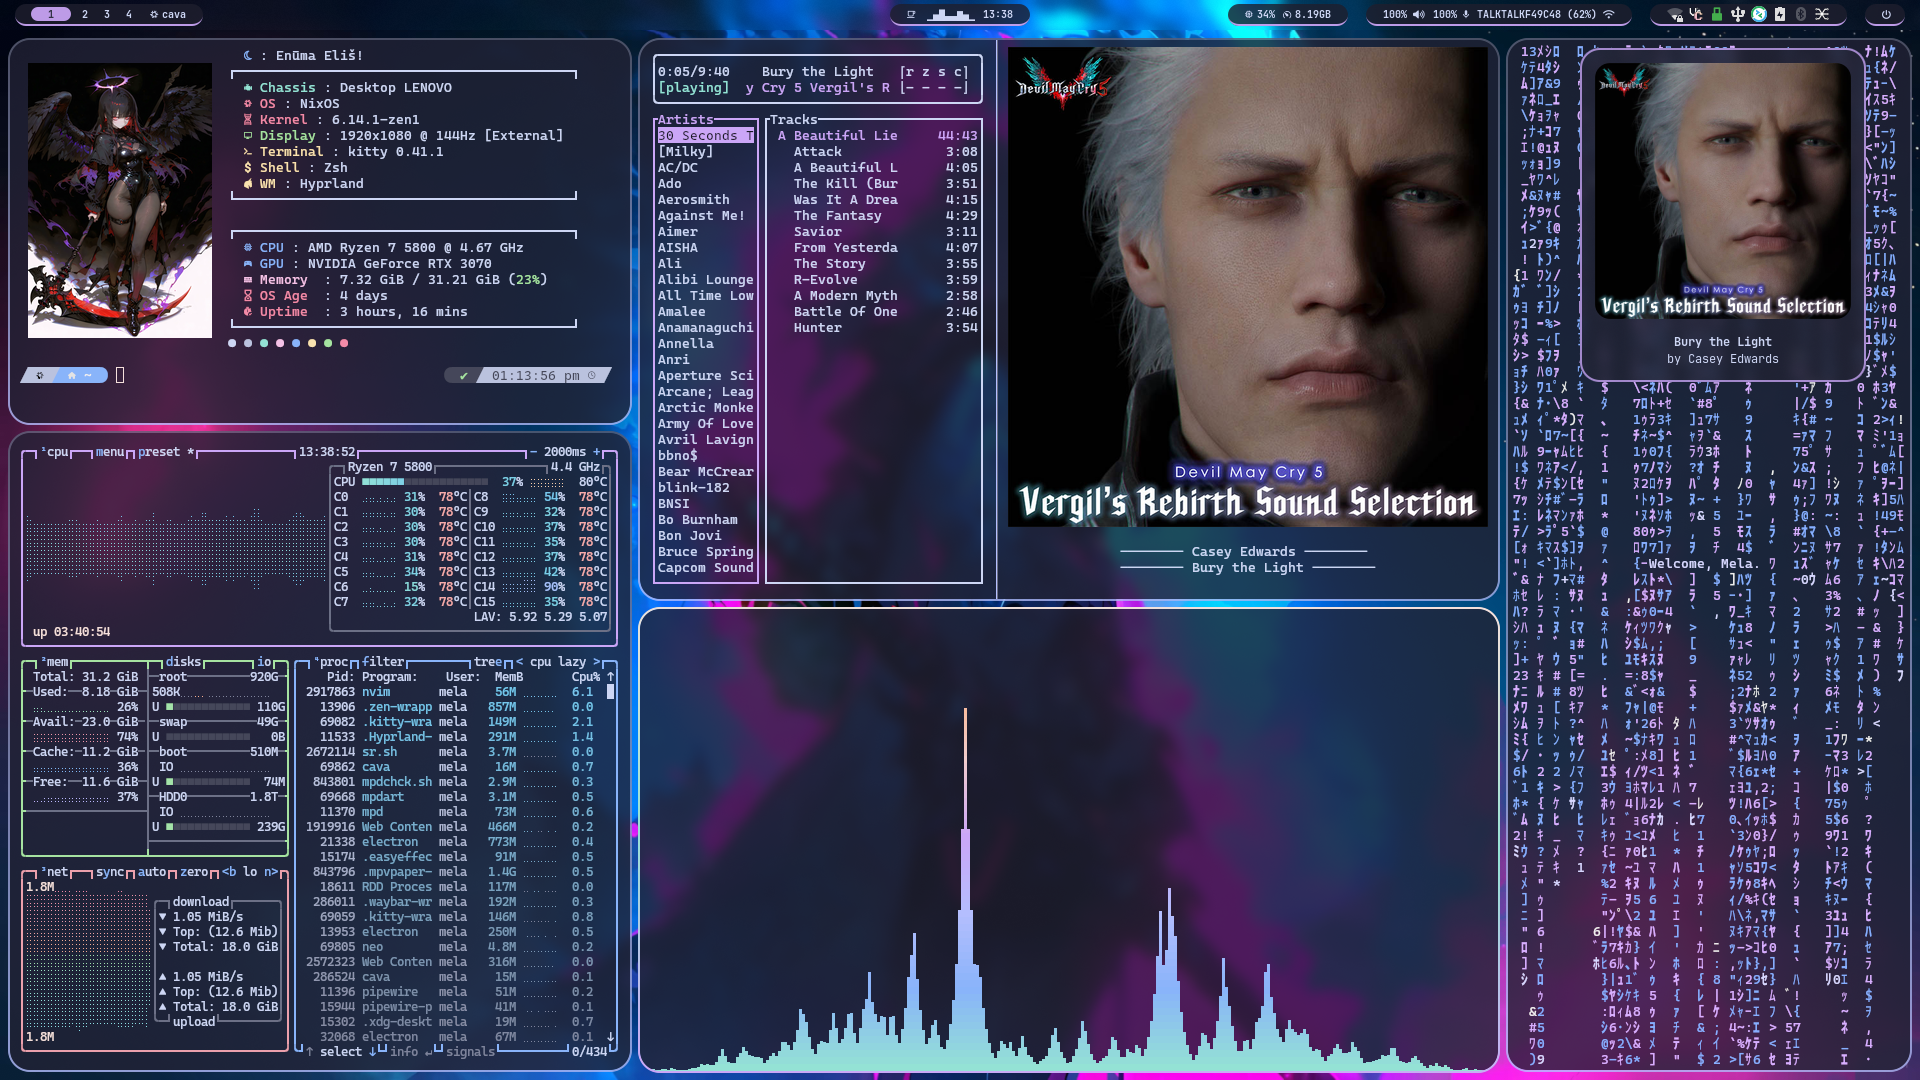
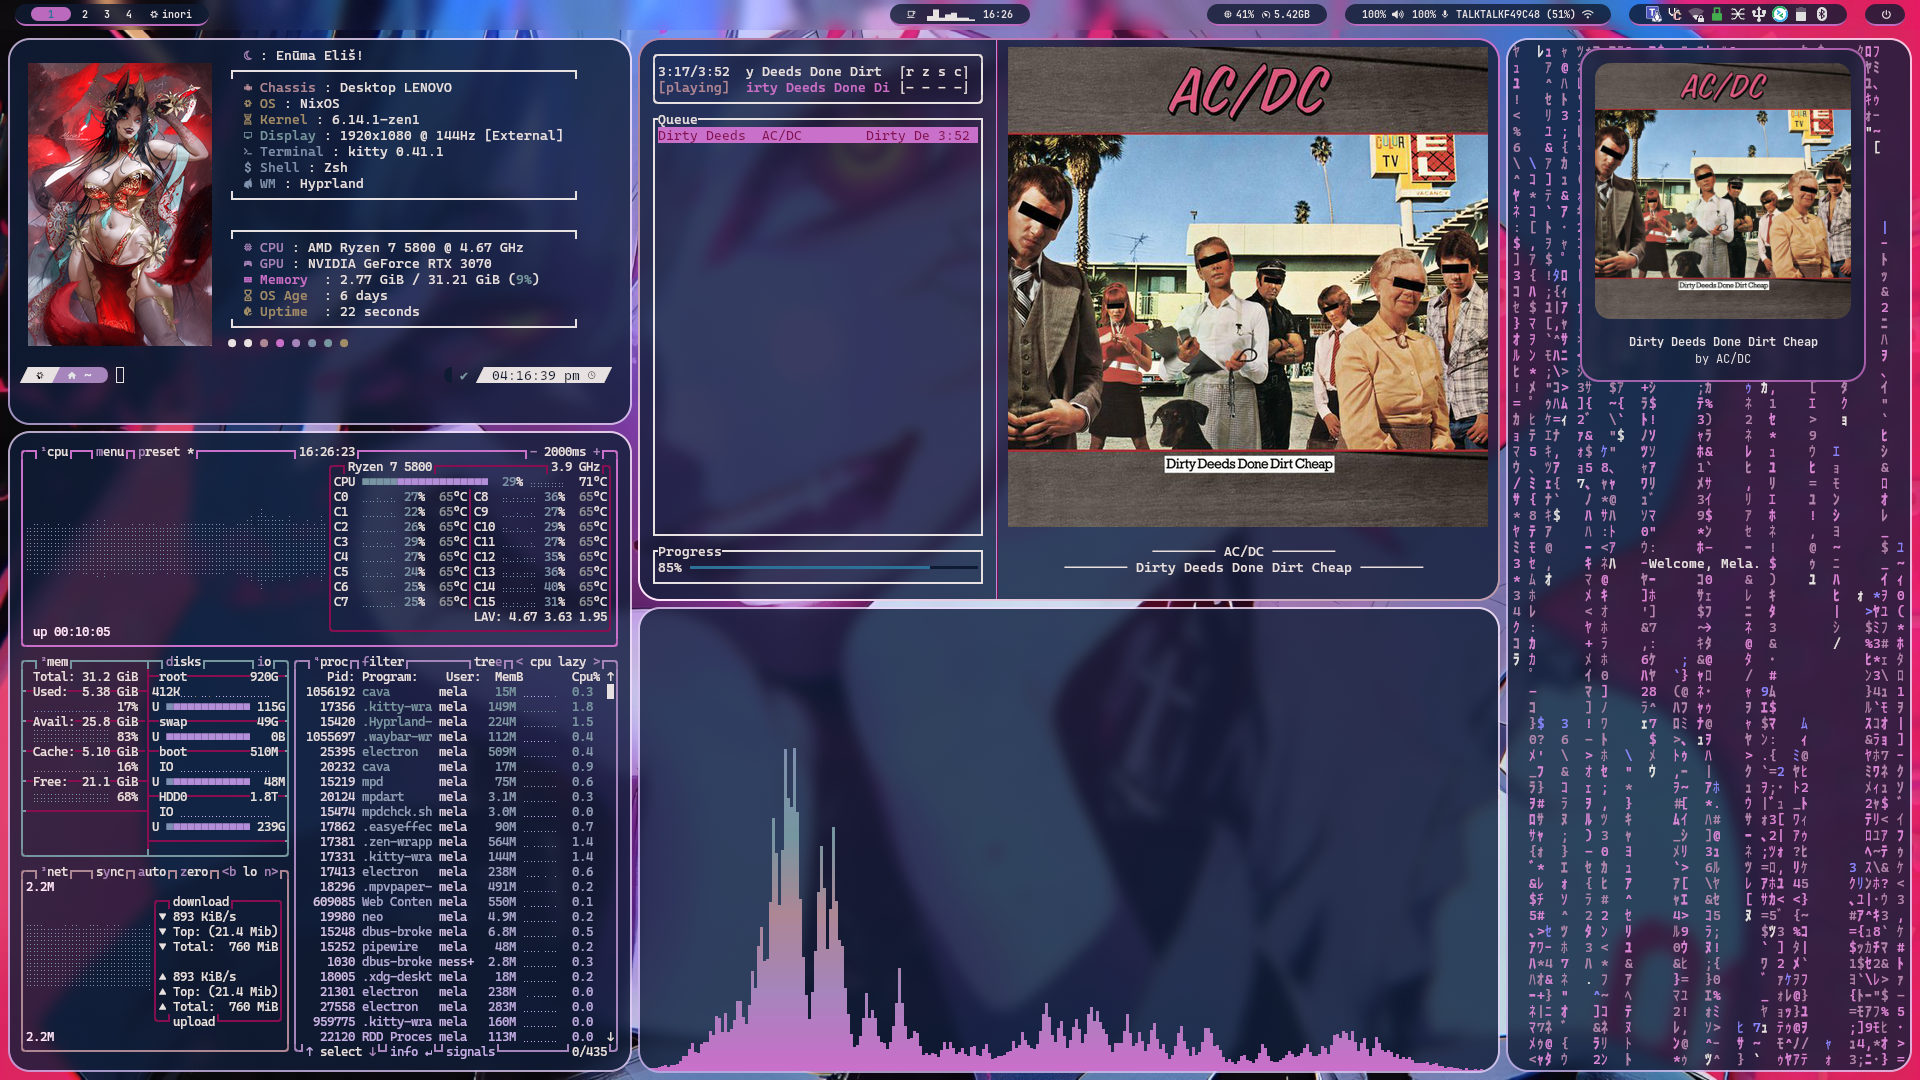
Update README

diff --git a/README.md b/README.md
@@ -4,18 +4,13 @@
 
 https://github.com/user-attachments/assets/5737ec56-ef2f-4a02-94b9-570ac8e895c7
 
+## Colours generated automatically to match wallpaper by Stylix
 
 ![SS1](https://raw.githubusercontent.com/Immelancholy/Nix-Relic/refs/heads/main/Screenshots/SS1.png)
 
 ![SS2](https://raw.githubusercontent.com/Immelancholy/Nix-Relic/refs/heads/main/Screenshots/SS2.png)
 
 ![SS3](https://raw.githubusercontent.com/Immelancholy/Nix-Relic/refs/heads/main/Screenshots/SS3.png)
-
-### With autogenerated stylix colours of default background
-
-![SS4](https://raw.githubusercontent.com/Immelancholy/Nix-Relic/refs/heads/main/Screenshots/SS4.png)
-
-![SS5](https://raw.githubusercontent.com/Immelancholy/Nix-Relic/refs/heads/main/Screenshots/SS5.png)
 
 ## Installation
 > [!WARNING]
